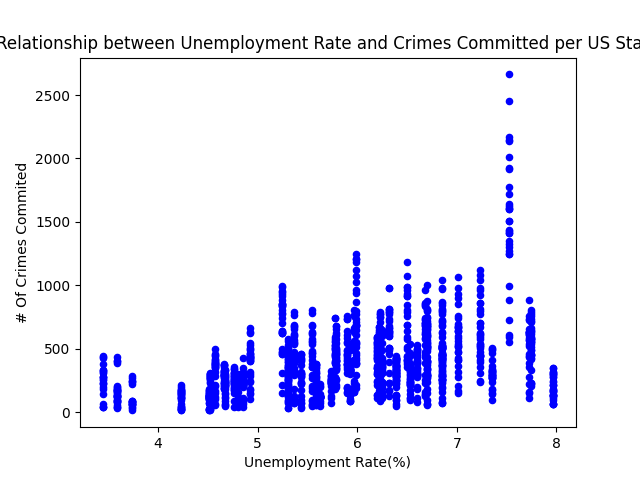
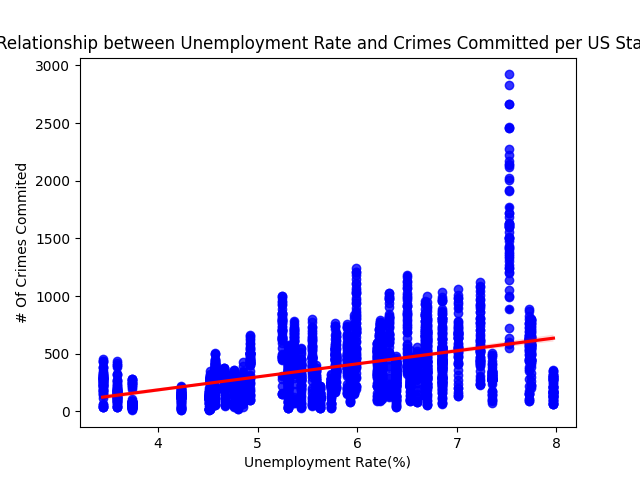
Added regression lines and organized files into folders

diff --git a/graph_generator_2.py b/graph_generator_2.py
@@ -3,8 +3,8 @@ import seaborn as sns
 import matplotlib.pyplot as plt
 
 # Load datasets
-path = './average_monthly_temperature_by_state_1950-2022.csv'
-path2 = './avocado.csv'
+path = './Datasets/average_monthly_temperature_by_state_1950-2022.csv'
+path2 = './Datasets/avocado.csv'
 
 df = pd.read_csv(path).rename(columns={'year': 'Year'})
 df_2 = pd.read_csv(path2)
@@ -43,13 +43,28 @@ plt.title("Temp vs Avocado")
 plt.show()
 
 # # Plot scatter plot
-# final_df.plot.scatter(
-#     x='Obesity', 
-#     y='Unemployment_percentage_per_state', 
-#     color='blue'
-# )
-# plt.title('Relationship between Unemployment Rate and Obesity per US State')
-# plt.xlabel('Obesity')
-# plt.ylabel('Unemployment Percentage Per State')
-# plt.savefig('Obesity_vs_Unemployment_Scatterplot.png')
-# plt.show()
+sample_df = final_df.sample(frac=0.10, random_state=42)
+
+
+fig, ax1 = plt.subplots(figsize=(10, 6))
+ax1.plot(final_df['Year'], final_df['average_temp'], color='red', label='Average Temperature')
+ax1.set_xlabel('Year')
+ax1.set_ylabel('Average Temperature (°C)', color='red')
+ax1.tick_params(axis='y', labelcolor='red')
+
+# Create the second Y-axis for avocado prices
+ax2 = ax1.twinx()
+ax2.plot(final_df['Year'], final_df['AveragePrice'], color='blue', label='Average Avocado Price')
+ax2.set_ylabel('Average Avocado Price (USD)', color='blue')
+ax2.tick_params(axis='y', labelcolor='blue')
+
+# Title and legend
+plt.title('Yearly Trends: Average Temperature vs. Avocado Prices')
+fig.tight_layout()
+ax1.legend(loc='upper left')
+ax2.legend(loc='upper right')
+
+# Save and show the plot
+filePath = './Analysis_results/'
+plt.savefig(filePath + 'Temperature_vs_Avocado_Prices_LineGraph.png')
+plt.show()

diff --git a/graph_generator.py b/graph_generator.py
@@ -3,8 +3,8 @@ import seaborn as sns
 import matplotlib.pyplot as plt
 
 # Load datasets
-path = './Unemployment_in_America_Per_US_State.csv'
-path2 = './US_Obesity_Rates.csv'
+path = './Datasets/Unemployment_in_America_Per_US_State.csv'
+path2 = './Datasets/US_Obesity_Rates.csv'
 
 df = pd.read_csv(path).rename(columns={'Percent (%) of Labor Force Unemployed in State/Area': 'Unemployment_percentage_per_state'})
 df_2 = pd.read_csv(path2).rename(columns={'NAME': 'State/Area'})
@@ -29,7 +29,8 @@ print(correlation_matrix)
 plt.figure(figsize=(8, 6))
 sns.heatmap(correlation_matrix, annot=True, cmap='coolwarm', fmt=".2f")
 plt.title("Correlation Heatmap between Obesity and Unemployment Rate per US State")
-plt.savefig('Obesity_vs_Unemployment_Heatmap.png')
+filePath = './Analysis_results/'
+plt.savefig(filePath + 'Obesity_vs_Unemployment_Heatmap.png')
 plt.show()
 
 # Plot scatter plot
@@ -38,8 +39,18 @@ final_df.plot.scatter(
     y='Unemployment_percentage_per_state', 
     color='blue'
 )
+
+sns.regplot(
+    x='Obesity',
+    y='Unemployment_percentage_per_state',
+    data=final_df,
+    scatter_kws={"color": "blue"},
+    line_kws={"color": "red"}
+)
 plt.title('Relationship between Unemployment Rate and Obesity per US State')
 plt.xlabel('Obesity')
 plt.ylabel('Unemployment Percentage Per State')
-plt.savefig('Obesity_vs_Unemployment_Scatterplot.png')
+
+filePath = './Analysis_results/'
+plt.savefig(filePath + 'Obesity_vs_Unemployment_Scatterplot.png')
 plt.show()

diff --git a/graph_generator_5.py b/graph_generator_5.py
@@ -5,8 +5,8 @@ import matplotlib.pyplot as plt
 ##Crime VS Unemployment
 
 # Load datasets
-path = './Unemployment_in_America_Per_US_State.csv'
-path2 = './state_crime.csv'
+path = './Datasets/Unemployment_in_America_Per_US_State.csv'
+path2 = './Datasets/state_crime.csv'
 
 df = pd.read_csv(path).rename(columns={'State/Area': 'State', 'Percent (%) of Labor Force Unemployed in State/Area': 'Unemployment_percentage_per_state'})
 
@@ -37,11 +37,18 @@ plt.show()
 
 
 # Plot scatter plot
-sample_df = final_df.sample(frac=0.5, random_state=42)
+sample_df = final_df.sample(frac=0.10, random_state=42)
 sample_df.plot.scatter(
     x='Unemployment_percentage_per_state', 
     y='Violent_Crimes', 
     color='blue'
+)
+sns.regplot(
+    x='Unemployment_percentage_per_state',
+    y='Violent_Crimes',
+    data=final_df,
+    scatter_kws={"color": "blue"},
+    line_kws={"color": "red"}
 )
 plt.title('Relationship between Unemployment Rate and Crimes Committed per US State')
 plt.xlabel('Unemployment Rate(%)')

diff --git a/graph_generator_4.py b/graph_generator_4.py
@@ -5,8 +5,8 @@ import matplotlib.pyplot as plt
 ##TEMP VS SUICIDE YEARLY
 
 # Load datasets
-path = './Death_rates_for_suicide__by_sex__race__Hispanic_origin__and_age__United_States(1).csv'
-path2 = './average_monthly_temperature_by_state_1950-2022.csv'
+path = './Datasets/Death_rates_for_suicide__by_sex__race__Hispanic_origin__and_age__United_States(1).csv'
+path2 = './Datasets/average_monthly_temperature_by_state_1950-2022.csv'
 
 df = pd.read_csv(path).rename(columns={'YEAR': 'Year'})
 

diff --git a/graph_generator_3.py b/graph_generator_3.py
@@ -6,8 +6,8 @@ import matplotlib.pyplot as plt
 #AVOCADO PRICE VS SUICIDE RATES
 
 # Load datasets
-path = './Death_rates_for_suicide__by_sex__race__Hispanic_origin__and_age__United_States(1).csv'
-path2 = './avocado.csv'
+path = './Datasets/Death_rates_for_suicide__by_sex__race__Hispanic_origin__and_age__United_States(1).csv'
+path2 = './Datasets/avocado.csv'
 
 df = pd.read_csv(path).rename(columns={'YEAR': 'Year'})
 df_2 = pd.read_csv(path2)
